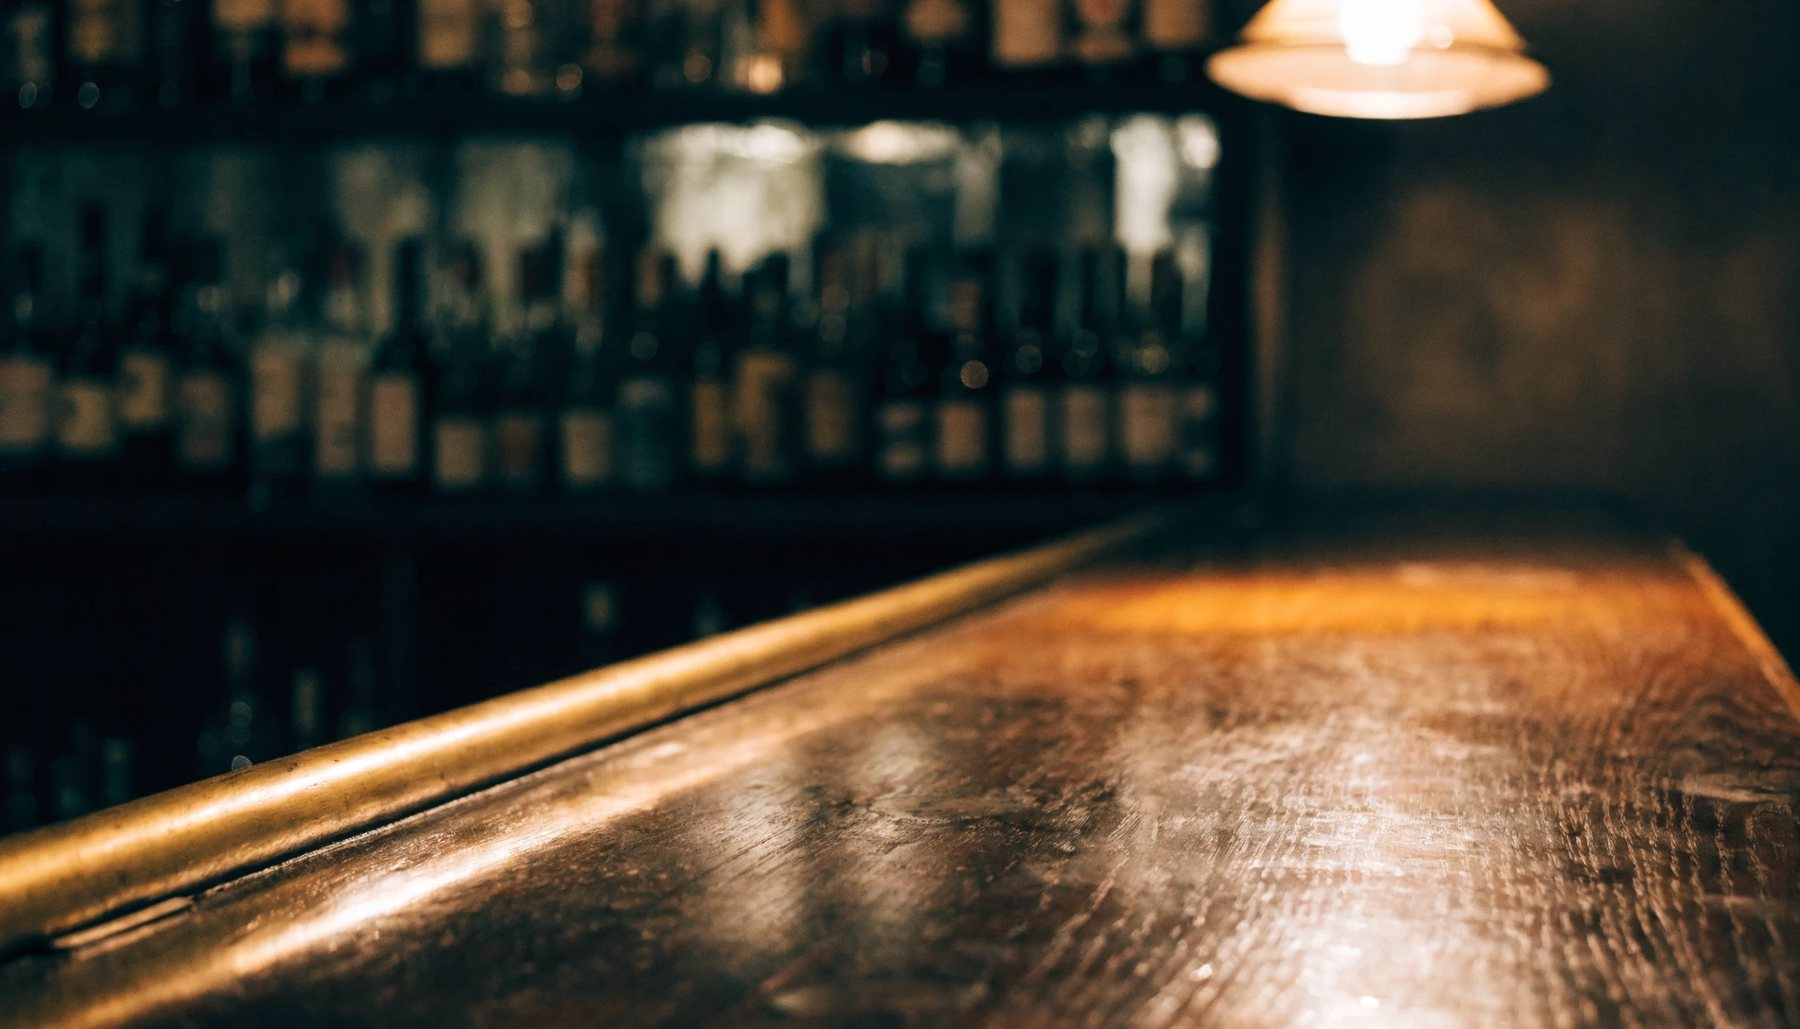
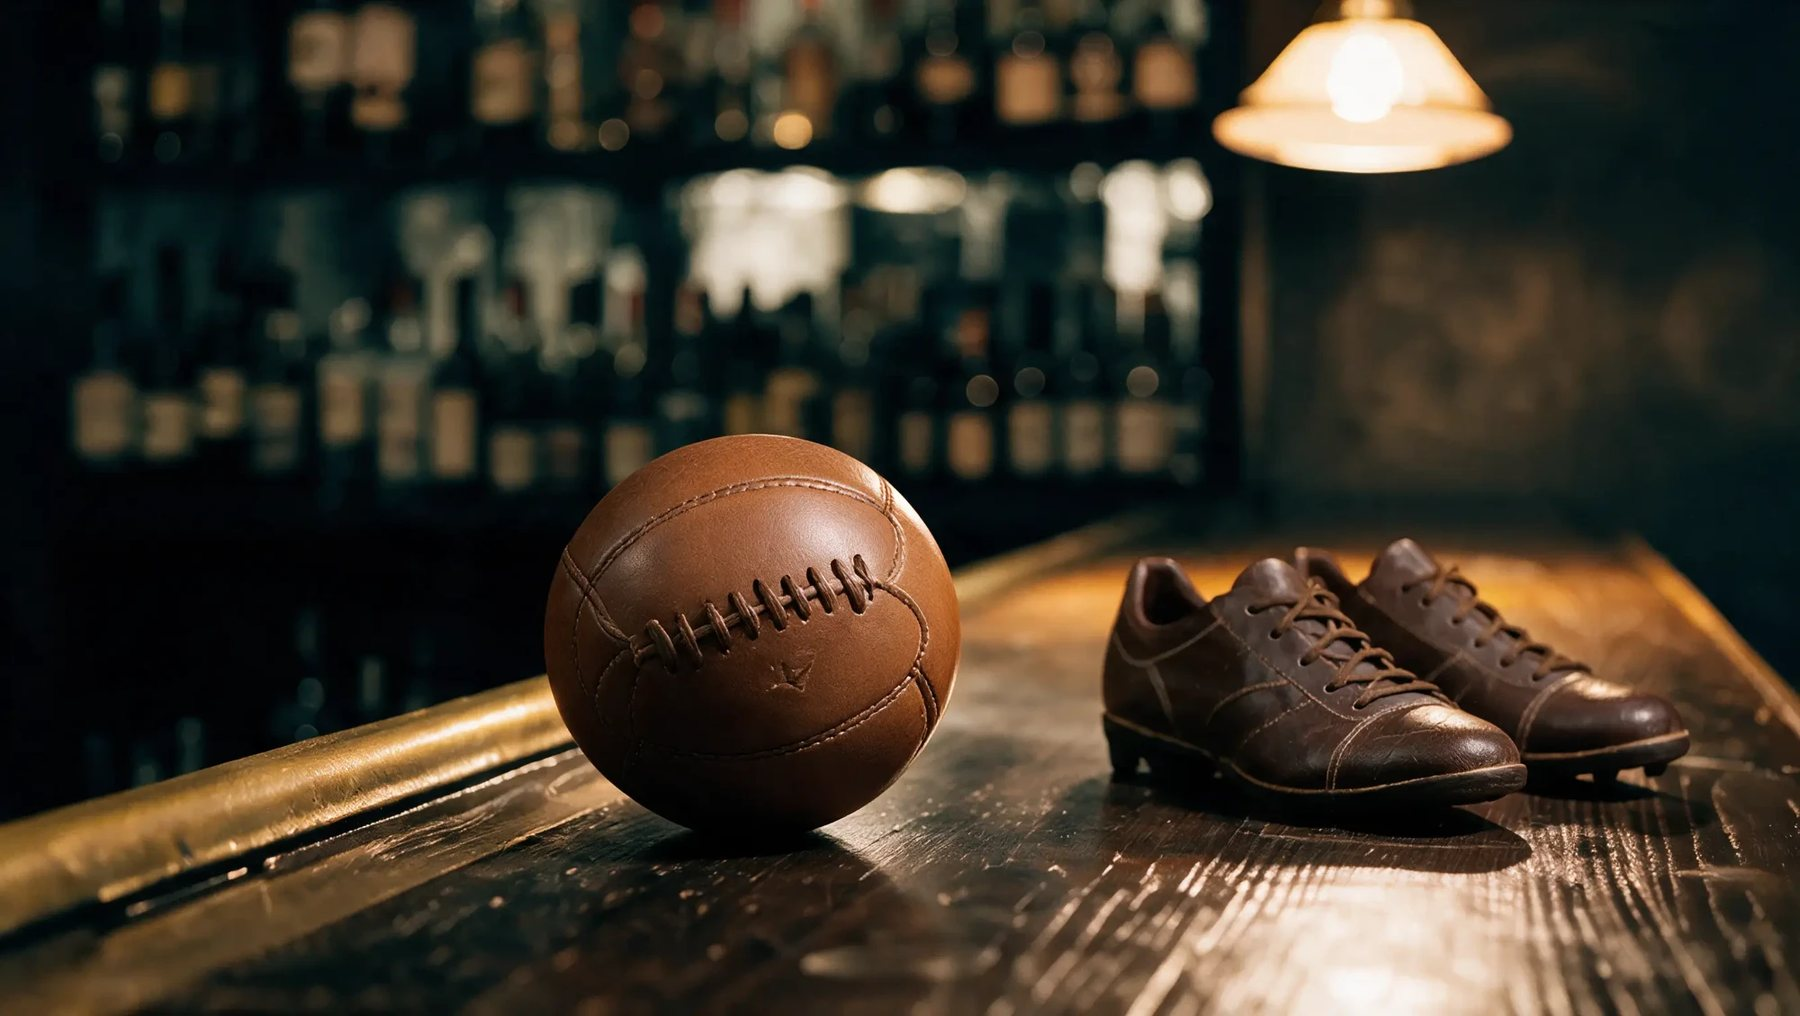
Filete rojo en la tapa y la barra con la pelota
- El filete de la tapa y los del lomo pasan de oro a rojo Lito, conservando el
  desgaste: se aísla el oro por matiz y saturación, se le fija el matiz del rojo
  del manual y se le conserva el valor, así los raspones del dorado original
  siguen leyéndose en el rojo. Las esquinas peladas del cuero quedan afuera de
  la máscara.
- Fondo nuevo: la barra con la pelota de gajos y los botines de cuero. El libro
  se recolocó para quedar delante y al medio, con la pelota a su izquierda y los
  botines a su derecha, y el encuadre se reajustó para que el plano siga
  cubriendo al girar la toma.

Claude-Session: https://claude.ai/code/session_016RdKxc9NMecg14L2oBtH98

diff --git a/assets/css/main.css b/assets/css/main.css
@@ -208,7 +208,7 @@ p { margin: 0 0 1.05em; max-width: 66ch; }
   background-color: #17110c;
   background-image: url('../img/texturas/fondo.jpg');
   background-size: auto 140vh;
-  background-position: 50% 40%;
+  background-position: 44% 40%;
   background-repeat: no-repeat;
   /* Profundidad real: el fondo está 520 px detrás del libro, así que al
      acercarse la toma el libro crece más rápido que el fondo. La escala
@@ -227,8 +227,8 @@ p { margin: 0 0 1.05em; max-width: 66ch; }
 
 /* La mesa sostiene el libro y su sombra proyectada */
 .mesa {
-  position: absolute; left: 54%; top: 63%;
-  width: min(418px, 80vw); aspect-ratio: 3 / 4;
+  position: absolute; left: 58%; top: 62%;
+  width: min(396px, 78vw); aspect-ratio: 3 / 4;
   transform: translate(-50%, -50%);
   transform-style: preserve-3d;
 }

diff --git a/README.md b/README.md
@@ -124,7 +124,7 @@ tocar el CSS:
 | Archivo | Dónde se usa | Cómo conviene que sea |
 | --- | --- | --- |
 | `fondo.jpg` | Fondo de la portada | Apaisada y oscura en los bordes, con una superficie clara donde apoyar el libro |
-| `tapa.jpg` | Tapa y contratapa | Tapa de cuero fotografiada de frente, con su filete dorado impreso. El escudo y las letras se componen encima en CSS |
+| `tapa.jpg` | Tapa y contratapa | Cuero fotografiado de frente, con su filete impreso. El escudo y las letras se componen encima en CSS |
 | `lomo.jpg` | Lomo del tomo | Lomo con nervios, de frente y vertical; se recorta a `cover` sobre una cara de 58 px |
 | `cuero.jpg` | (sin uso hoy) | Quedó de la etapa anterior; el troquel del escudo ya toma su grano de `tapa.jpg` |
 | `papel.jpg` | Hojas y guarda | **Tiene que repetir sin costura**: se repite en mosaico de 520 px |
@@ -133,7 +133,15 @@ El papel del repositorio es un mosaico espejado y llevado al hueso del manual
 (`#F4EFE6`), para que la trama no cante y el color siga siendo el de la marca.
 Si se reemplaza por una foto cruda, el mosaico se va a notar.
 
-**La tapa trae su propio filete dorado.** Por eso `.cara-frente` no dibuja
+**El filete de la tapa es rojo, y no venía así.** La fotografía original tenía
+el filete dorado; se lo pasó a rojo Lito por matiz: se toma la máscara de los
+amarillos con saturación (matiz 33°–68°, S > .26, V > .30), se les fija el
+matiz del rojo del manual y se les conserva el valor, para que el gastado y los
+raspones del oro original sigan leyéndose en el rojo. Las esquinas peladas del
+cuero quedan fuera de la máscara por ser más anaranjadas y menos saturadas. Si
+se cambia la foto de tapa hay que rehacer esa conversión.
+
+**La tapa trae su propio filete.** Por eso `.cara-frente` no dibuja
 ningún marco y el contenido va con `padding: 13% 14% 12.5%`, que es lo que lo
 mantiene dentro del filete de la foto. Si se cambia la foto de tapa hay que
 volver a medir ese padding contra el nuevo marco.
